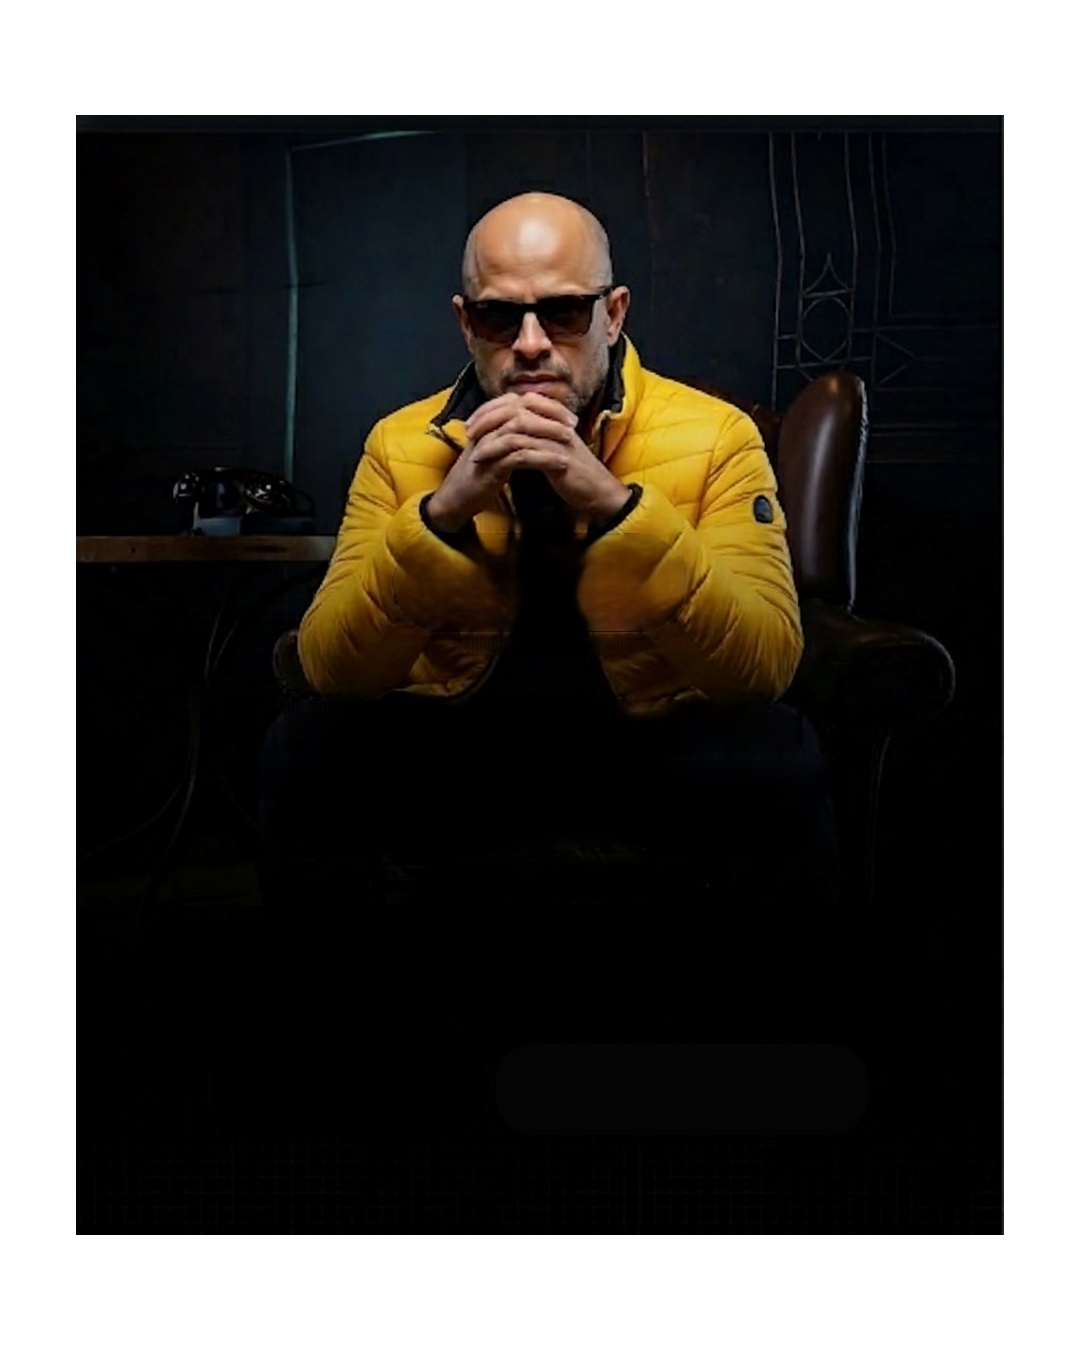
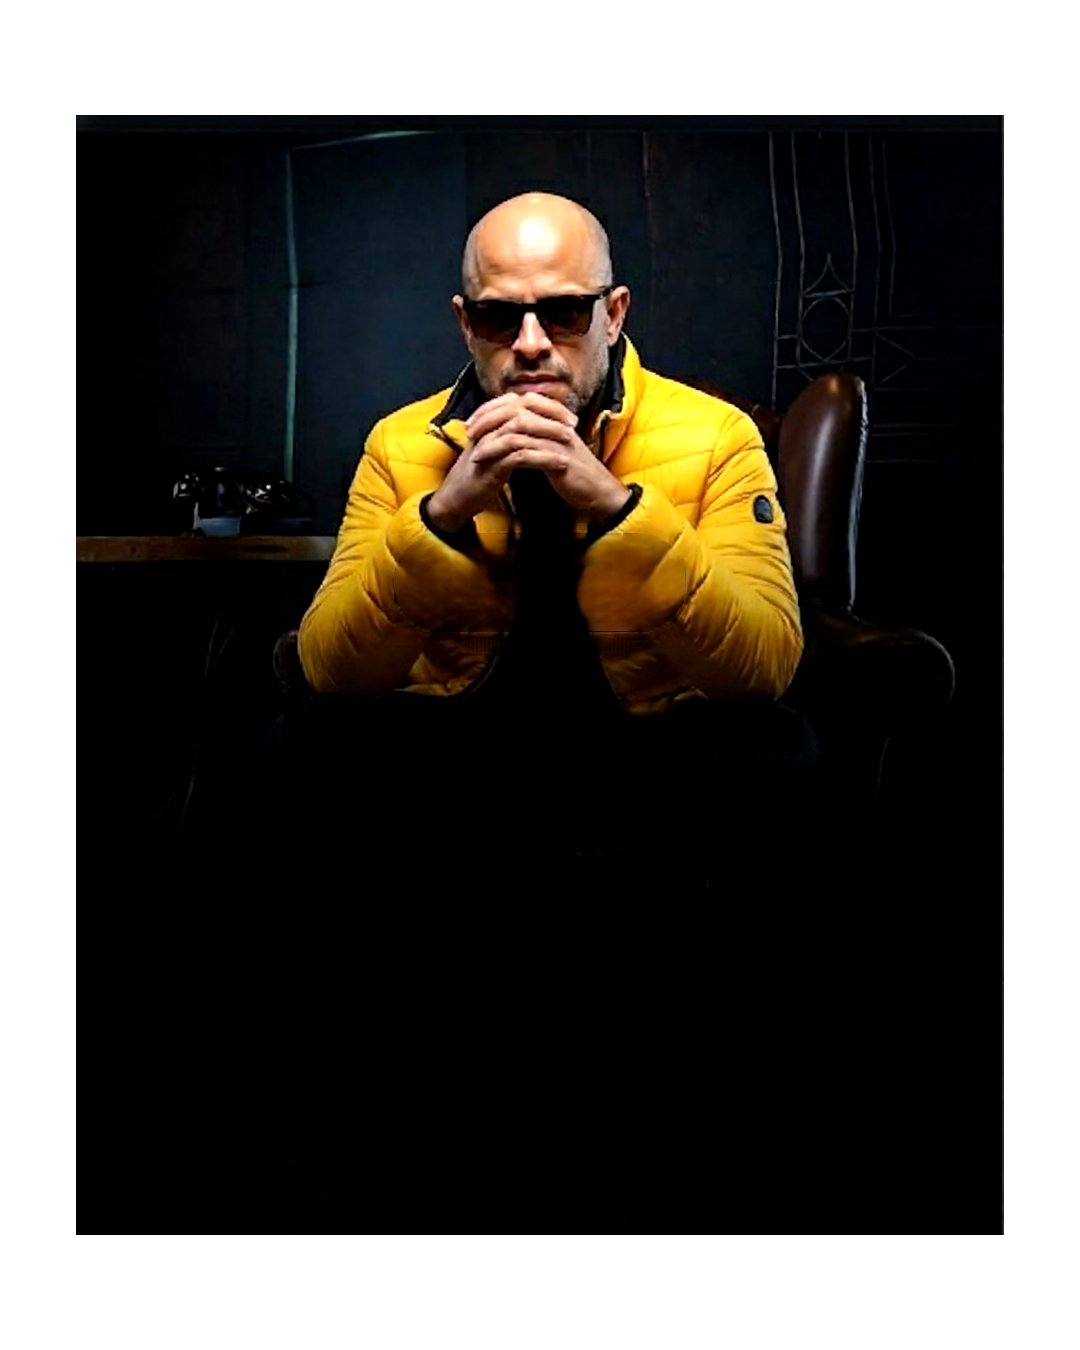
Hero: foto com brilho +25% e contraste +10% via PIL, overlay CSS removido

Changed region(s): [[0.275, 0.1244, 0.7639, 0.4978]]

diff --git a/index.html b/index.html
@@ -254,9 +254,7 @@
         <!-- Foto background seamless (desktop) — funde com o fundo escuro -->
         <div class="hidden md:block absolute right-0 top-0 bottom-0 w-1/2 pointer-events-none overflow-hidden">
             <img src="edenio-hero.jpg" alt="Edenio Costa" class="absolute bottom-0 right-0 w-full h-full object-cover object-top scale-110 foto-real" style="mask-image: radial-gradient(ellipse 70% 70% at 50% 40%, black 40%, transparent 72%); -webkit-mask-image: radial-gradient(ellipse 70% 70% at 50% 40%, black 40%, transparent 72%);">
-            <!-- Iluminação sutil no sujeito (centro) -->
-            <div class="absolute inset-0" style="background: radial-gradient(ellipse 50% 55% at 50% 30%, rgba(255,255,255,0.25) 0%, rgba(255,255,255,0.1) 40%, transparent 70%); pointer-events: none;"></div>
-            <!-- Fade edges pra fundir com background -->
+<!-- Fade edges pra fundir com background -->
             <div class="absolute inset-0 bg-gradient-to-r from-[#0a0a0a] via-[#0a0a0a]/30 to-transparent"></div>
             <div class="absolute inset-0 bg-gradient-to-t from-[#0a0a0a] via-transparent to-[#0a0a0a]/70"></div>
             <div class="absolute inset-0 bg-gradient-to-b from-[#0a0a0a]/50 via-transparent to-[#0a0a0a]"></div>
